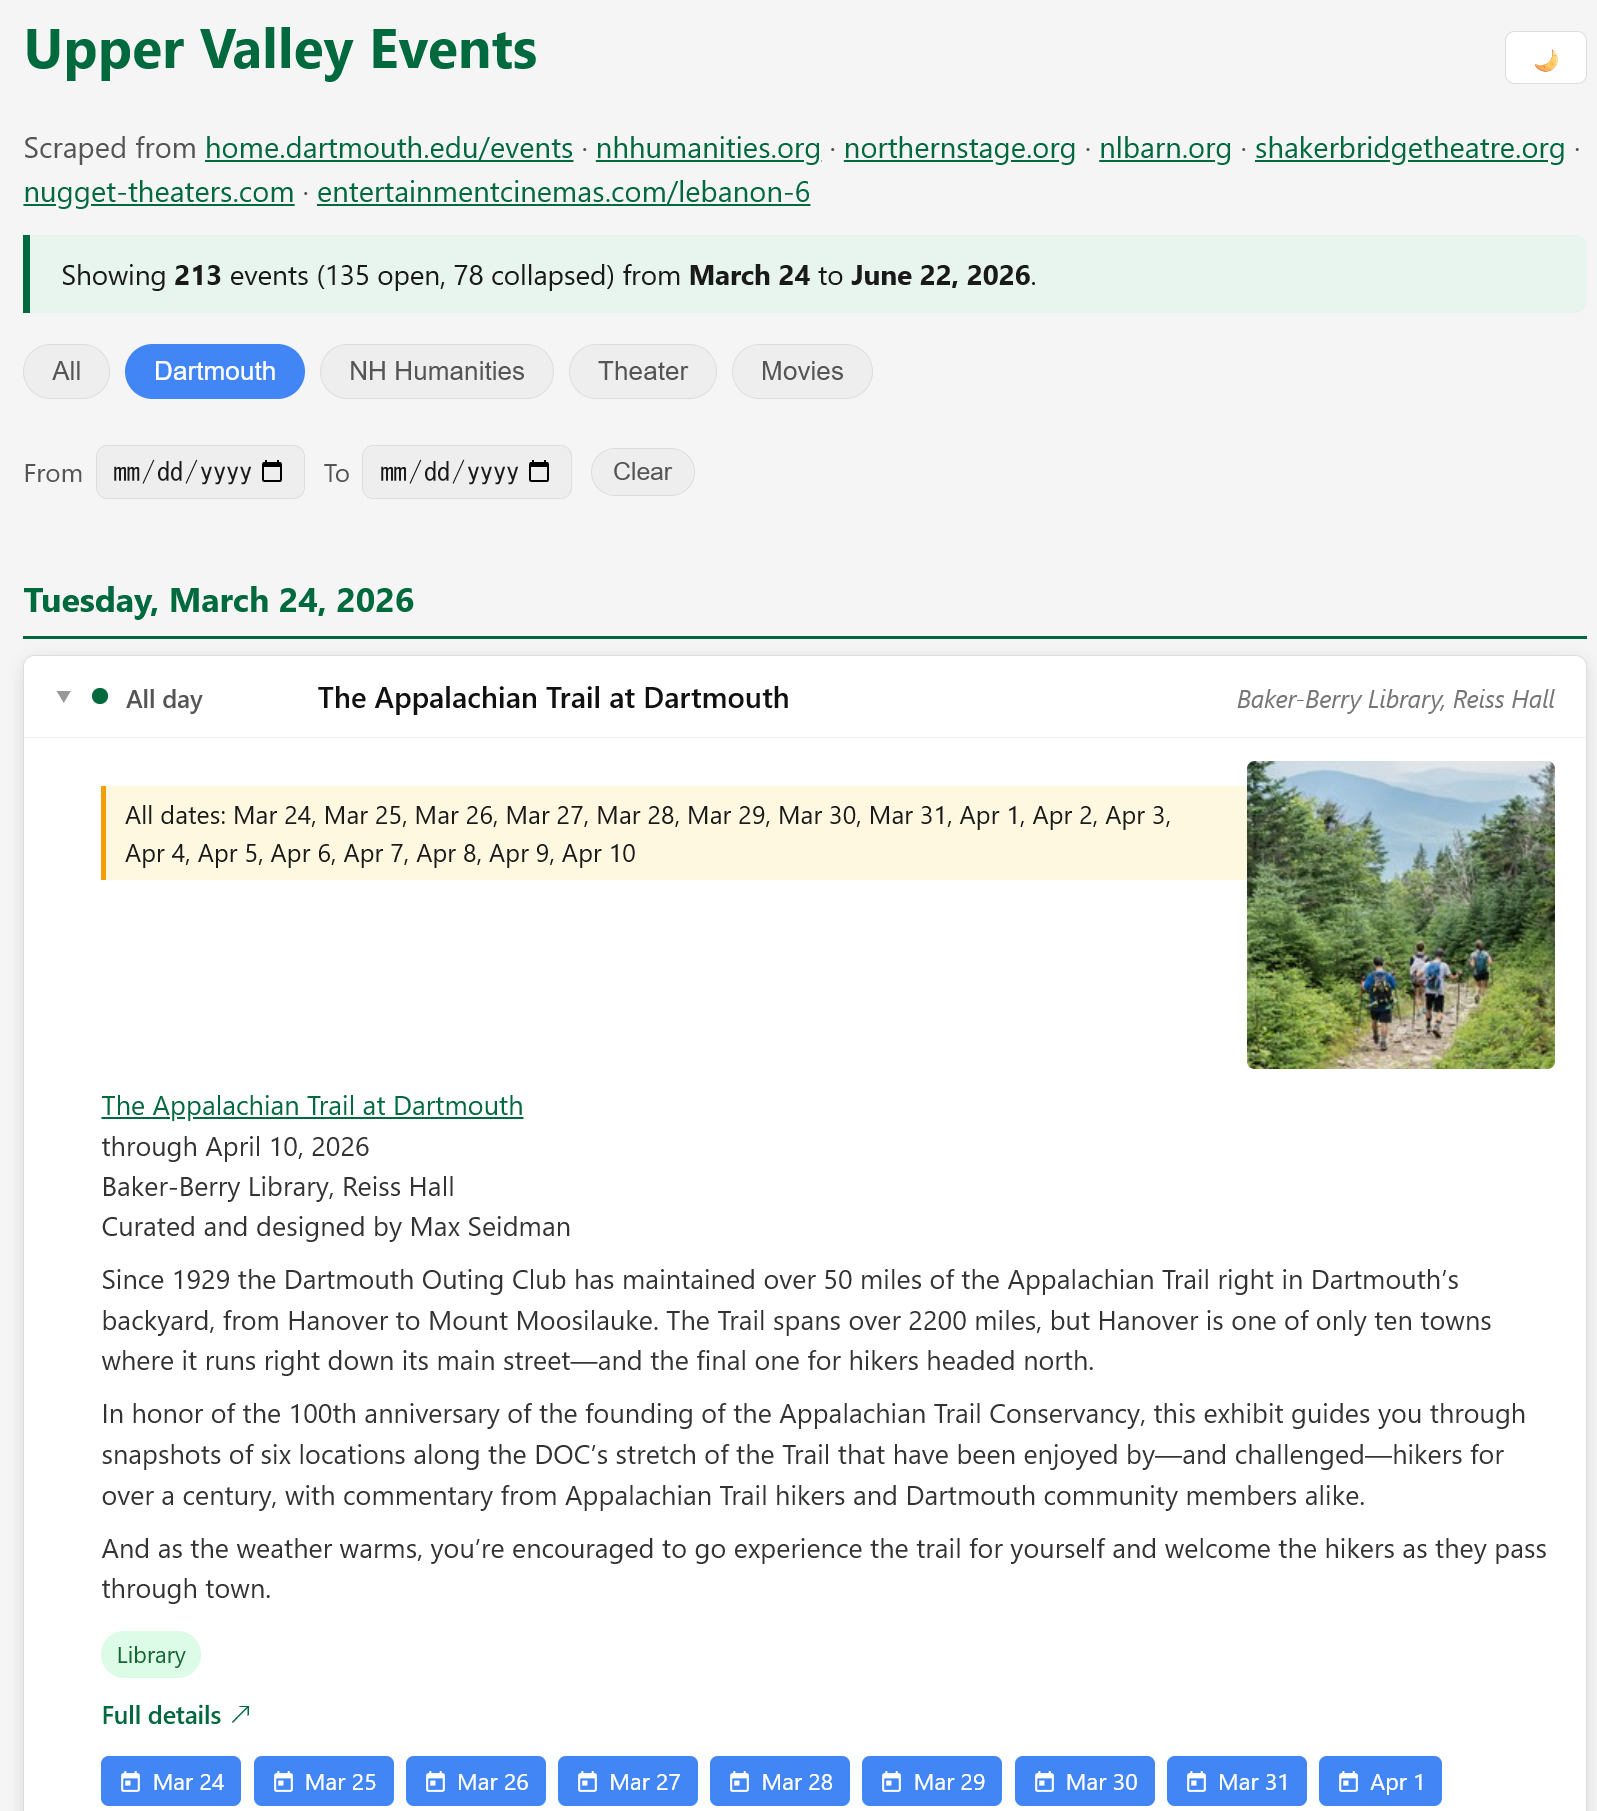
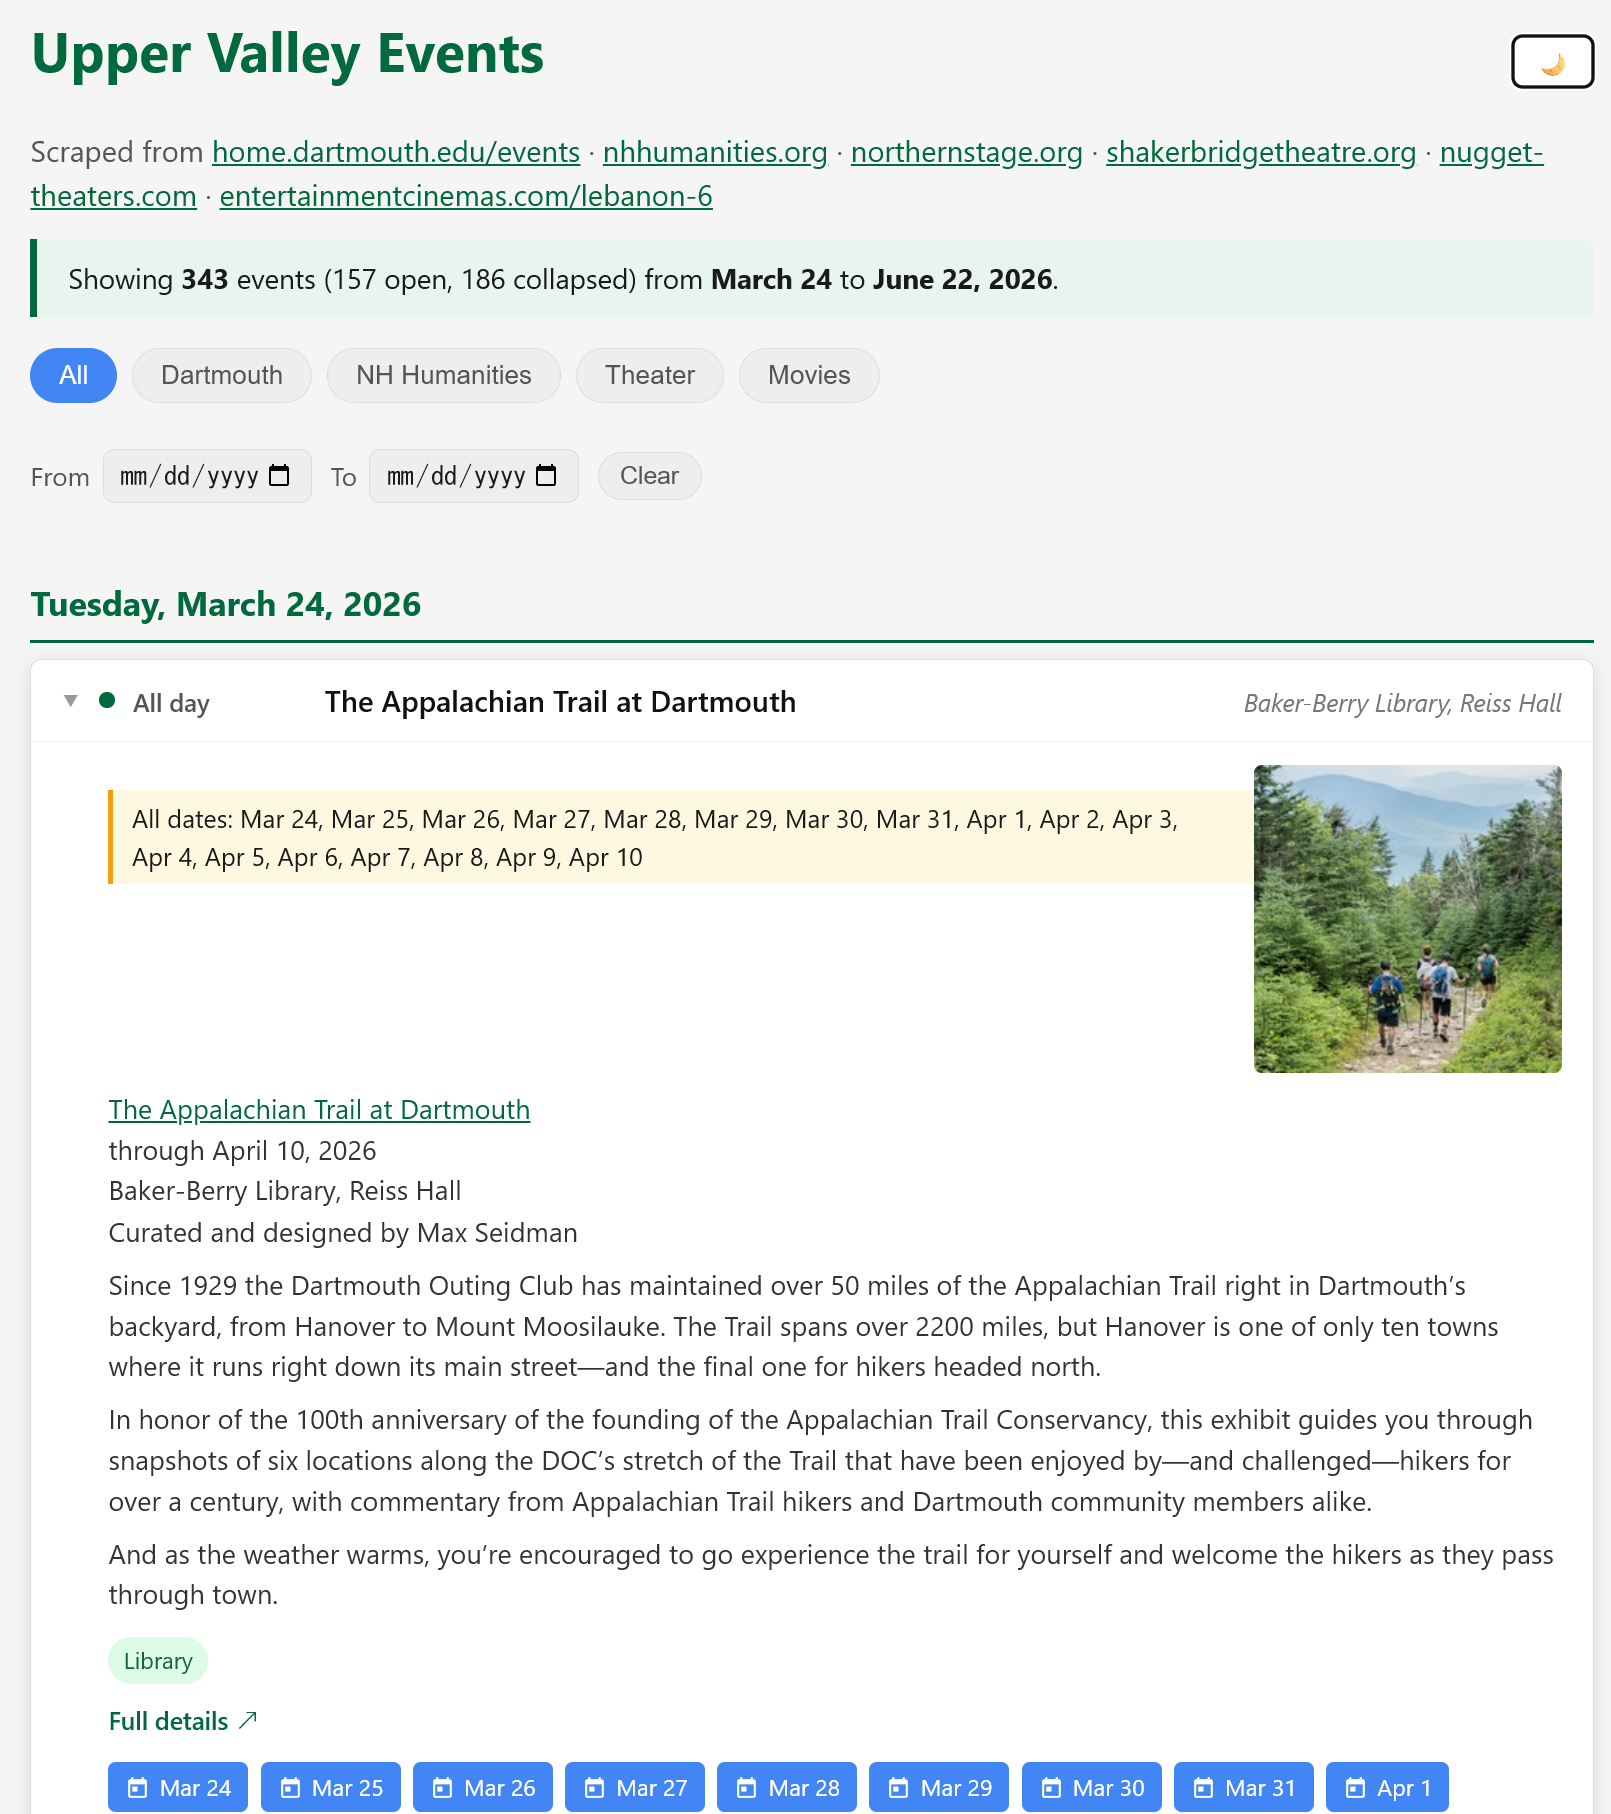
Bugfixes

diff --git a/scraper.py b/scraper.py
@@ -5,7 +5,6 @@ Fetches 30 days of events from:
   - home.dartmouth.edu/events
   - nhhumanities.org/programs/upcoming
   - northernstage.org
-  - nlbarn.org (National Theatre Live screenings)
   - shakerbridgetheatre.org
 Produces a self-contained HTML page with color-coded, filterable events.
 """
@@ -48,9 +47,6 @@ NS_SKIP_NAMES = re.compile(
     re.IGNORECASE
 )
 
-NLBARN_BASE = "https://www.nlbarn.org"
-NLBARN_NTL_URL = f"{NLBARN_BASE}/national-theatre-live"
-
 SHBT_BASE = "https://www.shakerbridgetheatre.org"
 SHBT_TICKETS_URL = "https://app.arts-people.com/index.php?ticketing=sbt"
 
@@ -82,7 +78,7 @@ MONTH_MAP = {
     'Jul': 7, 'Aug': 8, 'Sep': 9, 'Oct': 10, 'Nov': 11, 'Dec': 12
 }
 
-THEATER_SOURCES = ["northernstage", "nlbarn", "shakerbridgetheatre"]
+THEATER_SOURCES = ["northernstage", "shakerbridgetheatre"]
 MOVIE_SOURCES = ["nugget", "lebanon6"]
 ALL_SOURCES = ["dartmouth", "nhhumanities"] + THEATER_SOURCES + MOVIE_SOURCES
 SOURCE_GROUPS = {
@@ -383,118 +379,6 @@ def _theater_show_to_event(show: dict, today: date) -> dict:
         "duration": f"{run_days} days",
         "unimportant": False,
     }
-
-
-# ---------------------------------------------------------------------------
-# NL Barn scraping
-# ---------------------------------------------------------------------------
-
-_MONTH_RE = re.compile(
-    r'\b(January|February|March|April|May|June|July|August|September|October|November|December)\b',
-    re.IGNORECASE,
-)
-
-
-def _nlbarn_parse_date(text: str) -> tuple[date | None, str]:
-    """Parse 'Saturday, April 18th at 2pm' → (date, '2pm')."""
-    clean = re.sub(r'(\d+)(st|nd|rd|th)\b', r'\1', text)
-    m = re.match(r'\w+,\s+(\w+ \d+)\s+at\s+(\d+(?::\d+)?\s*[ap]m)', clean.strip(), re.IGNORECASE)
-    if not m:
-        return None, text.strip()
-    month_day, time_part = m.group(1), m.group(2).strip()
-    for year in [date.today().year, date.today().year + 1]:
-        try:
-            return datetime.strptime(f"{month_day} {year}", "%B %d %Y").date(), time_part
-        except ValueError:
-            continue
-    return None, time_part
-
-
-def _nlbarn_fetch_page(url: str) -> list[dict]:
-    """Scrape NL Barn page for show blocks (h3 title + strong date).
-
-    Squarespace puts h3 and the following strong-date in separate fe-block
-    siblings, so we scan descendants in document order and match each date
-    to the nearest preceding h3.
-    """
-    try:
-        resp = requests.get(url, headers=BROWSER_HEADERS, timeout=30)
-        resp.raise_for_status()
-    except Exception as e:
-        print(f"  Warning: could not fetch {url}: {e}", file=sys.stderr)
-        return []
-    soup = BeautifulSoup(resp.text, "html.parser")
-
-    # Collect (position, tag) for h3s and strong-dates in document order
-    h3_tags: list[tuple[int, object]] = []
-    date_tags: list[tuple[int, object]] = []
-    for i, tag in enumerate(soup.descendants):
-        name = getattr(tag, "name", None)
-        if name == "h3":
-            h3_tags.append((i, tag))
-        elif name == "strong" and _MONTH_RE.search(tag.get_text(strip=True) or ""):
-            date_tags.append((i, tag))
-
-    events = []
-    seen_titles: set[str] = set()
-    for date_pos, date_tag in date_tags:
-        date_text = date_tag.get_text(strip=True)
-        ev_date, time_str = _nlbarn_parse_date(date_text)
-        if not ev_date:
-            continue
-        # Nearest h3 preceding this date tag
-        preceding = [(p, t) for p, t in h3_tags if p < date_pos]
-        if not preceding:
-            continue
-        _, h3_tag = preceding[-1]
-        title = h3_tag.get_text(strip=True)
-        if not title or title in seen_titles:
-            continue
-        seen_titles.add(title)
-
-        # Walk up from the date tag to find its fe-block, then look for
-        # ticket link, description, image in the surrounding fluid-engine
-        fluid = date_tag.find_parent(class_=re.compile(r'fluid-engine'))
-        container = fluid or date_tag.find_parent("div")
-
-        ticket_url = url
-        description = ""
-        image = ""
-        author = ""
-        if container:
-            a = container.find("a", href=re.compile(r'ovationtix\.com'))
-            if a:
-                ticket_url = a["href"]
-            em = container.find("em")
-            if em:
-                author = em.get_text(strip=True)
-            desc_parts = []
-            for p in container.find_all("p"):
-                t = p.get_text(strip=True)
-                if (t and len(t) > 15
-                        and not _MONTH_RE.search(t)
-                        and "tickets" not in t.lower()
-                        and t != author):
-                    desc_parts.append(f"<p>{t}</p>")
-            if author:
-                desc_parts.insert(0, f"<p><em>{author}</em></p>")
-            description = "\n".join(desc_parts)
-            img = container.find("img")
-            if img:
-                image = img.get("src", "")
-
-        events.append({
-            "id": ticket_url or f"nlbarn_{ev_date.isoformat()}_{title[:20]}",
-            "title": title,
-            "date": ev_date,
-            "time_str": time_str or "",
-            "description": description,
-            "image": image,
-            "url": ticket_url,
-            "location": "Fleming Center, New London",
-            "source": "nlbarn",
-        })
-    return events
 
 
 # ---------------------------------------------------------------------------
@@ -909,7 +793,6 @@ SOURCE_META = {
     "dartmouth":          {"label": "Dartmouth",       "group": "dartmouth"},
     "nhhumanities":       {"label": "NH Humanities",   "group": "nhhumanities"},
     "northernstage":      {"label": "Northern Stage",  "group": "theater"},
-    "nlbarn":             {"label": "NL Barn",          "group": "theater"},
     "shakerbridgetheatre":{"label": "Shaker Bridge",   "group": "theater"},
     "nugget":             {"label": "Nugget Theater",   "group": "movies"},
     "lebanon6":           {"label": "Lebanon 6",        "group": "movies"},
@@ -1124,8 +1007,6 @@ def generate_html(events: list[dict], start: date, end: date) -> str:
       --pip-nhhumanities:        #38bdf8;
       --surf-northernstage:      #1f1700; --bord-northernstage:      #3d2e00;
       --pip-northernstage:       #fbbf24;
-      --surf-nlbarn:             #1a1200; --bord-nlbarn:             #332200;
-      --pip-nlbarn:              #fb923c;
       --surf-shakerbridgetheatre:#200a00; --bord-shakerbridgetheatre:#3d1500;
       --pip-shakerbridgetheatre: #f87171;
       --surf-nugget:             #080d1a; --bord-nugget:             #1a2a40;
@@ -1173,8 +1054,6 @@ def generate_html(events: list[dict], start: date, end: date) -> str:
       --pip-nhhumanities:        #0284c7;
       --surf-northernstage:      #fffbeb; --bord-northernstage:      #fde68a;
       --pip-northernstage:       #d97706;
-      --surf-nlbarn:             #fff7ed; --bord-nlbarn:             #fed7aa;
-      --pip-nlbarn:              #ea580c;
       --surf-shakerbridgetheatre:#fff5f5; --bord-shakerbridgetheatre:#fecaca;
       --pip-shakerbridgetheatre: #dc2626;
       --surf-nugget:             #eff6ff; --bord-nugget:             #bfdbfe;
@@ -1225,7 +1104,6 @@ def generate_html(events: list[dict], start: date, end: date) -> str:
     details.source-dartmouth           { background: var(--surf-dartmouth);           border-color: var(--bord-dartmouth); }
     details.source-nhhumanities        { background: var(--surf-nhhumanities);        border-color: var(--bord-nhhumanities); }
     details.source-northernstage       { background: var(--surf-northernstage);       border-color: var(--bord-northernstage); }
-    details.source-nlbarn              { background: var(--surf-nlbarn);              border-color: var(--bord-nlbarn); }
     details.source-shakerbridgetheatre { background: var(--surf-shakerbridgetheatre); border-color: var(--bord-shakerbridgetheatre); }
     details.source-nugget              { background: var(--surf-nugget);              border-color: var(--bord-nugget); }
     details.source-lebanon6            { background: var(--surf-lebanon6);            border-color: var(--bord-lebanon6); }
@@ -1251,7 +1129,6 @@ def generate_html(events: list[dict], start: date, end: date) -> str:
     .source-pip-dartmouth           { background: var(--pip-dartmouth); }
     .source-pip-nhhumanities        { background: var(--pip-nhhumanities); }
     .source-pip-northernstage       { background: var(--pip-northernstage); }
-    .source-pip-nlbarn              { background: var(--pip-nlbarn); }
     .source-pip-shakerbridgetheatre { background: var(--pip-shakerbridgetheatre); }
     .source-pip-nugget              { background: var(--pip-nugget); }
     .source-pip-lebanon6            { background: var(--pip-lebanon6); }
@@ -1330,7 +1207,6 @@ def generate_html(events: list[dict], start: date, end: date) -> str:
         "dartmouth":           '<a href="https://home.dartmouth.edu/events">home.dartmouth.edu/events</a>',
         "nhhumanities":        '<a href="https://www.nhhumanities.org/programs/upcoming">nhhumanities.org</a>',
         "northernstage":       '<a href="https://northernstage.org">northernstage.org</a>',
-        "nlbarn":              '<a href="https://www.nlbarn.org">nlbarn.org</a>',
         "shakerbridgetheatre": '<a href="https://www.shakerbridgetheatre.org">shakerbridgetheatre.org</a>',
         "nugget":              '<a href="https://www.nugget-theaters.com">nugget-theaters.com</a>',
         "lebanon6":            '<a href="https://www.entertainmentcinemas.com/lebanon-6">entertainmentcinemas.com/lebanon-6</a>',
@@ -1417,7 +1293,7 @@ def generate_html(events: list[dict], start: date, end: date) -> str:
     document.querySelectorAll('h2.date-header').forEach(h => {{
       let sib = h.nextElementSibling, visible = false;
       while (sib && !sib.classList.contains('date-header')) {{
-        if (sib.style.display !== 'none') {{ visible = true; break; }}
+        if (sib.classList.contains('event') && sib.style.display !== 'none') {{ visible = true; break; }}
         sib = sib.nextElementSibling;
       }}
       h.style.display = visible ? '' : 'none';
@@ -1716,21 +1592,6 @@ def run_scrape_northernstage(today: date, end: date) -> list[dict]:
     return events
 
 
-def run_scrape_nlbarn(today: date, end: date) -> list[dict]:
-    print("Fetching NL Barn National Theatre Live page...")
-    raw = _nlbarn_fetch_page(NLBARN_NTL_URL)
-    # Filter to window
-    events = []
-    for ev in raw:
-        d = ev.get("date")
-        if d and today <= d <= end:
-            ev["dates"] = [d]
-            ev["unimportant"] = False
-            events.append(ev)
-    print(f"NL Barn: {len(events)} events in window")
-    return events
-
-
 def run_scrape_shakerbridgetheatre(today: date, end: date) -> list[dict]:
     print("Fetching Shaker Bridge Theatre ticketing page...")
     try:
@@ -1762,11 +1623,12 @@ def run_generate(sources: list[str], today: date, end: date) -> None:
     os.makedirs("output", exist_ok=True)
     start, end = min(starts), max(ends)
     html_output = generate_html(all_events, start, end)
-    html_path = os.path.join("output", f"events_{today.isoformat()}.html")
+    now_str = datetime.now(EASTERN).strftime("%Y-%m-%dT%H-%M")
+    html_path = os.path.join("output", f"events_{now_str}.html")
     with open(html_path, "w", encoding="utf-8") as f:
         f.write(html_output)
     print(f"HTML written to {html_path} ({len(html_output) / 1024:.1f} KB)")
-    html_filename = f"events_{today.isoformat()}.html"
+    html_filename = f"events_{now_str}.html"
     symlink = os.path.join("output", "events.html")
     if os.path.islink(symlink) or os.path.exists(symlink):
         os.remove(symlink)
@@ -1782,7 +1644,6 @@ SCRAPE_FNS = {
     "dartmouth":           run_scrape_dartmouth,
     "nhhumanities":        run_scrape_nhhumanities,
     "northernstage":       run_scrape_northernstage,
-    "nlbarn":              run_scrape_nlbarn,
     "shakerbridgetheatre": run_scrape_shakerbridgetheatre,
     "nugget":              run_scrape_nugget,
     "lebanon6":            run_scrape_lebanon6,

diff --git a/README.md b/README.md
@@ -1,13 +1,12 @@
 # Upper Valley Events Scraper
 
-Scrapes upcoming public cultural events from several Upper Valley websites into one big
+Scrapes upcoming public cultural events from several Upper Valley (VT/NH) websites into one big
 page with Google Calendar buttons.
 
 **Sources:**
 - [home.dartmouth.edu/events](https://home.dartmouth.edu/events)
 - [nhhumanities.org/programs/upcoming](https://www.nhhumanities.org/programs/upcoming)
 - [northernstage.org](https://northernstage.org) (theater)
-- [nlbarn.org](https://www.nlbarn.org) (National Theatre Live screenings)
 - [shakerbridgetheatre.org](https://www.shakerbridgetheatre.org) (theater)
 - [nugget-theaters.com](https://www.nugget-theaters.com) (Nugget Theater, Hanover)
 - [entertainmentcinemas.com/lebanon-6](https://www.entertainmentcinemas.com/lebanon-6) (Lebanon 6)
@@ -30,9 +29,9 @@ python scraper.py [--scrape=SOURCES] [--days=N]
 
 |---|---|
 | `all` | All sources |
-| `theater` | `northernstage`, `nlbarn`, `shakerbridgetheatre` |
+| `theater` | `northernstage`, `shakerbridgetheatre` |
 | `movies` | `nugget`, `lebanon6` |
-| `dartmouth`, `nhhumanities`, `northernstage`, `nlbarn`, `shakerbridgetheatre`, `nugget`, `lebanon6` | Individual sources |
+| `dartmouth`, `nhhumanities`, `northernstage`, `shakerbridgetheatre`, `nugget`, `lebanon6` | Individual sources |
 
 ### Examples
 
@@ -65,7 +64,6 @@ Scraped data is stored as JSON in `output/` before HTML generation:
 | Dartmouth | `output/scraped_dartmouth.json` |
 | NH Humanities | `output/scraped_nhhumanities.json` |
 | Northern Stage | `output/scraped_northernstage.json` |
-| NL Barn | `output/scraped_nlbarn.json` |
 | Shaker Bridge | `output/scraped_shakerbridgetheatre.json` |
 | Nugget Theater | `output/scraped_nugget.json` |
 | Lebanon 6 | `output/scraped_lebanon6.json` |
